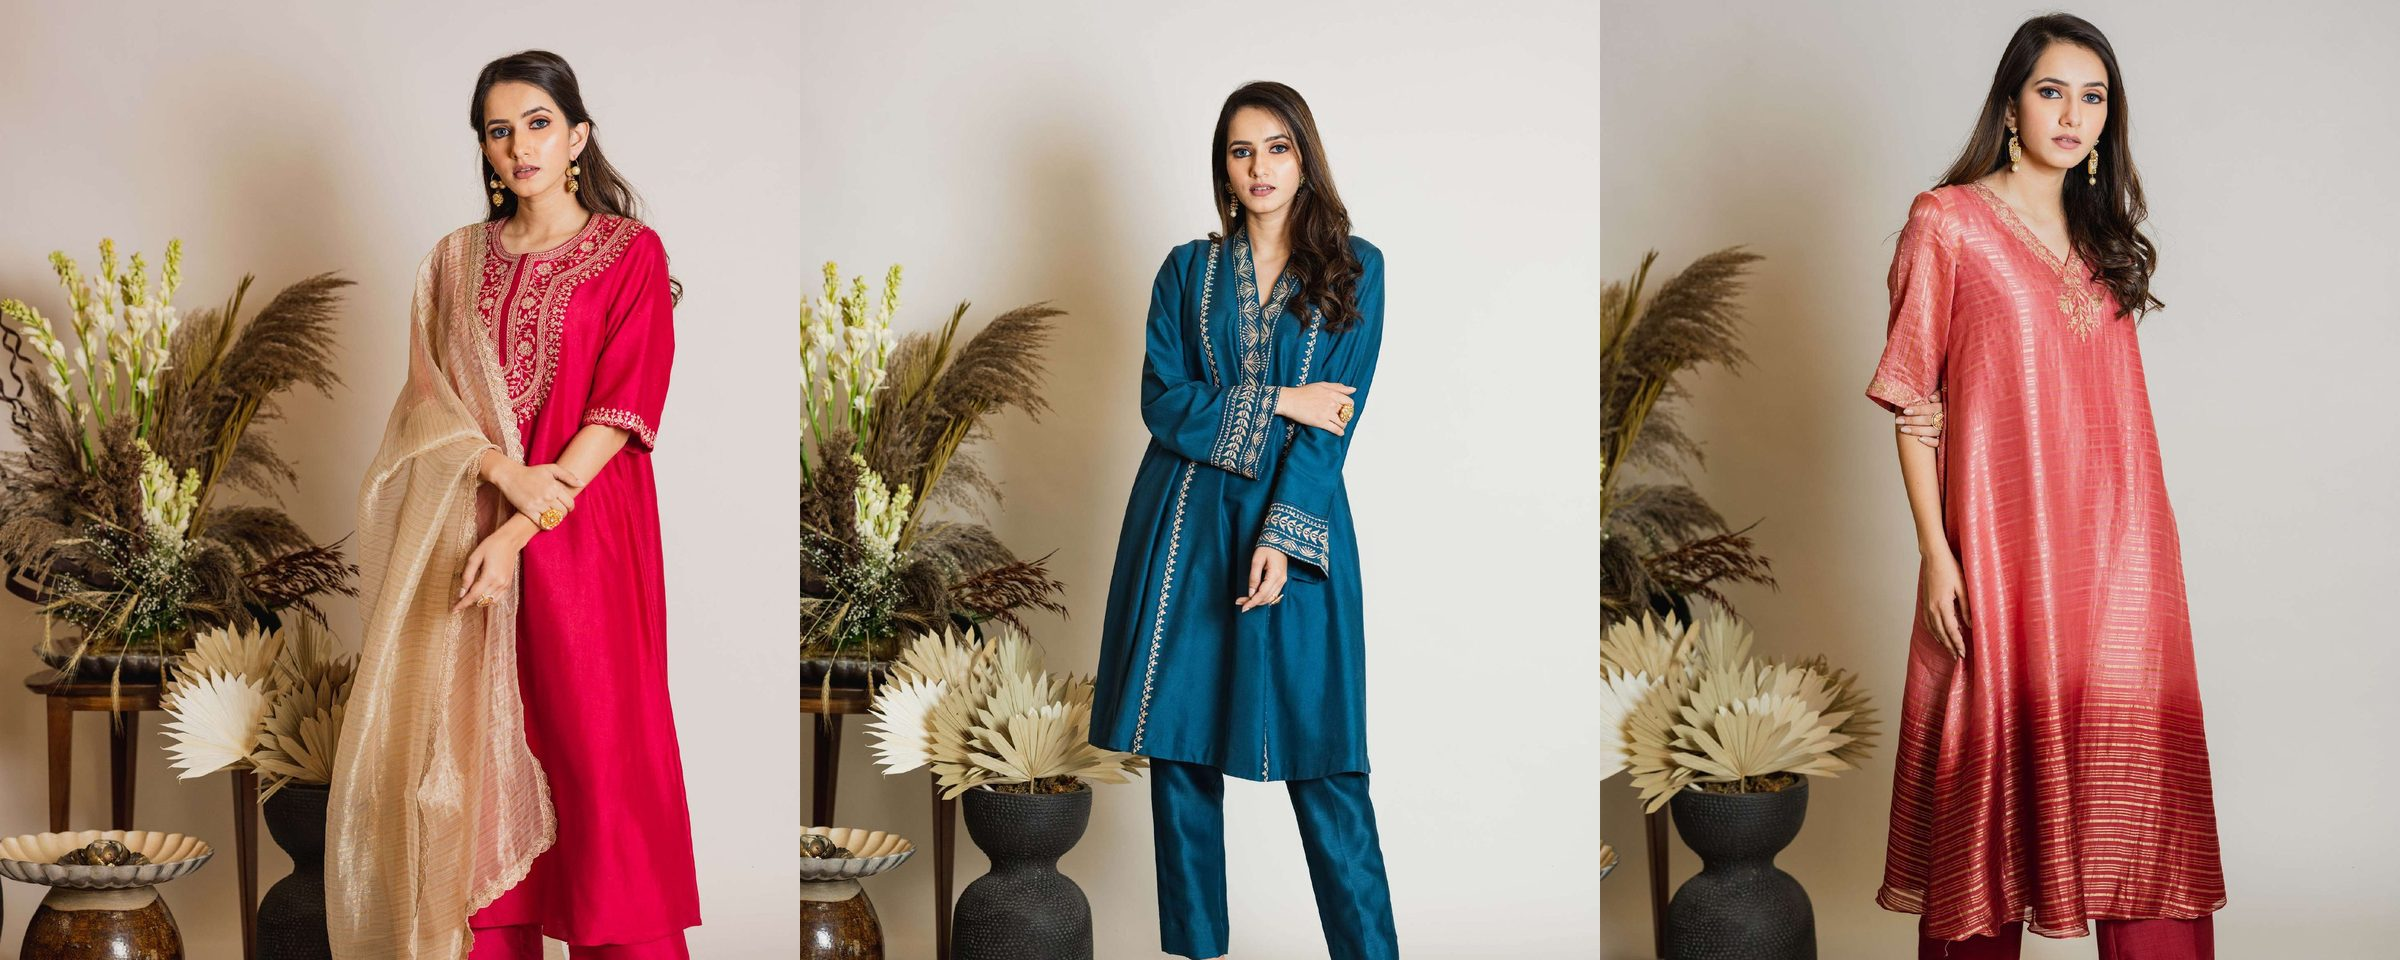
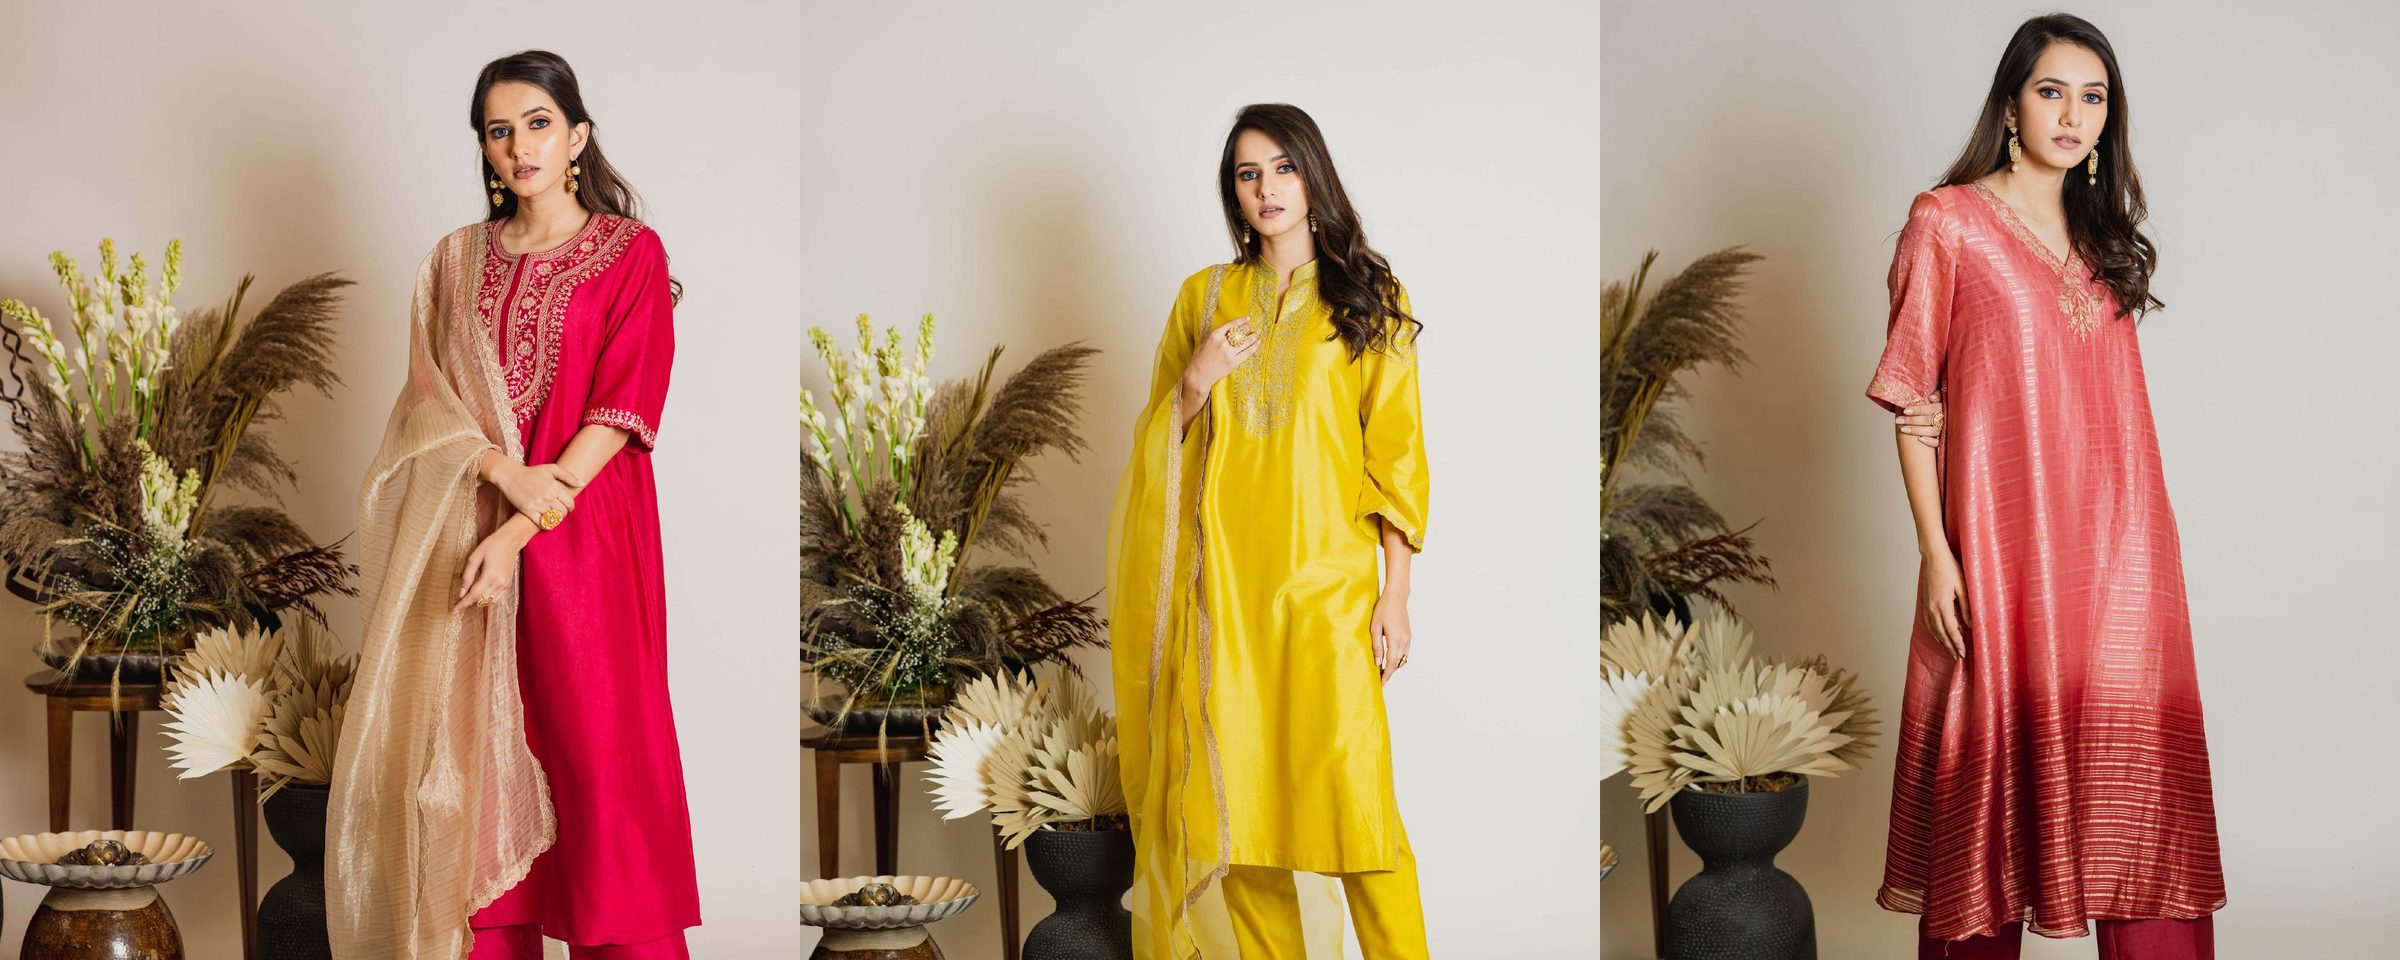
Full-viewport homepage hero, imagery refresh, and card tweaks
- Homepage hero: fill the viewport below the announcement bar and
  header (fullHeight on CollectionShowcase), larger WOMEN/LOOKBOOK
  button labels, fixed a latent image-stretch bug (object-fit: cover
  was never set on fill-mode images), swapped in new cover photos.
- Hide the browser scrollbar site-wide while keeping normal scroll.
- Atelier and Lookbook hero banners: swap the centre photo of each
  three-photo triptych.
- Women page: swap several Discover the Collection / silhouette /
  occasion tile images, and add a mirrored variant of two lookbook
  photos for tiles that needed the opposite orientation.
- Product cards: show the product name first and its category as the
  short subtitle instead of repeating "MALIHA" on every card; add a
  per-product `cardFocus` override for the image crop, used to
  reposition the Rani Pink Silk Kurta Set card.

Changed region(s): [[0.3125, 0.0625, 0.5938, 1.0]]

diff --git a/src/styles/theme/section-collection-showcase.css b/src/styles/theme/section-collection-showcase.css
@@ -1,3 +1,8 @@
 .collection-showcase__colors,.collection-showcase__title{color:var(--background_color)}.collection-showcase__image-wrapper .image__container{width:100%;height:auto}.collection-showcase__colors{background-color:var(--background_color)}.collection-showcase__image-outer-wrapper{box-sizing:border-box;display:flex;flex-direction:row;align-items:flex-start;height:auto;width:100%}.collection-showcase__text{display:block;color:var(--secondary_text);opacity:1;visibility:visible;height:auto;margin-top:.5rem}.collection-showcase__text.is-visible{display:block;opacity:1;visibility:visible;margin-top:.5rem}.collection-showcase__content-wrapper .Button--Tertiary{color:var(--secondary_text)}.collection-showcase__title{display:block}.collection-showcase__content-wrapper{position:absolute;cursor:default;top:0;left:0;z-index:6;padding:1rem;width:100%;display:flex;flex-direction:column;box-sizing:border-box;height:100%;pointer-events:none}.collection-showcase__image-container,.collection-showcase__content-wrapper a,.collection-showcase__content-wrapper button,.collection-showcase__button-wrapper a,.collection-showcase__button-wrapper button,.collection-showcase__image-container .video-controls,.collection-showcase__image-container .vjs-control,.collection-showcase__image-container .vjs-big-play-button{cursor:pointer}.collection-showcase__button-wrapper{display:flex;align-items:center;justify-content:center;gap:.625rem;position:relative;z-index:7;pointer-events:auto}.collection-content-alignment--left{justify-content:center;align-items:flex-start;text-align:start}.collection-content-alignment--center{justify-content:center;align-items:center;text-align:center}.collection-content-alignment--right{justify-content:center;align-items:flex-end;text-align:end}.collection-content-alignment--topLeft{justify-content:flex-start;align-items:flex-start;text-align:start}.collection-content-alignment--topCenter{justify-content:flex-start;align-items:center;text-align:center}.collection-content-alignment--topRight{justify-content:flex-start;align-items:flex-end;text-align:end}.collection-content-alignment--middleLeft{justify-content:center;align-items:flex-start;text-align:start}.collection-content-alignment--middleCenter{justify-content:center;align-items:center;text-align:center}.collection-content-alignment--middleRight{justify-content:center;align-items:flex-end;text-align:end}.collection-content-alignment--bottomLeft{justify-content:flex-end;align-items:flex-start;text-align:start}.collection-content-alignment--bottomCenter{justify-content:flex-end;align-items:center;text-align:center}.collection-content-alignment--bottomRight{justify-content:flex-end;align-items:flex-end;text-align:end}.collection-showcase__image-wrapper{overflow:hidden;position:relative;align-self:flex-start;height:auto}.collection-showcase__wrapper.swiper,.collection-showcase__wrapper .collection-showcase__image-outer-wrapper.swiper-wrapper{height:auto}.collection-showcase__wrapper .collection-showcase__image-wrapper.swiper-slide{height:auto!important}.collection-showcase__image-wrapper .image-block,.collection-showcase__image-wrapper .image__element,.collection-showcase__image-wrapper .video__shopify{overflow:hidden}.collection-showcase__image-container{position:relative;overflow:hidden}.collection-showcase__image-container .AspectRatio,.collection-showcase__image-container .video-container,.collection-showcase__image-container .VideoRatio{width:100%;margin:0}.collection-showcase__image-container .video-controls{overflow:hidden;position:absolute!important;left:0!important;right:0!important;bottom:0!important;width:100%;margin:0!important;height:auto!important;opacity:1;pointer-events:auto;z-index:5}.collection-showcase__image-container .video-container:has(.video-js.vjs-playing) .video-controls{display:block!important}.collection-showcase__item-link{position:absolute;top:0;right:0;bottom:0;left:0;z-index:1}.collection-showcase__image-wrapper:has(.video-container) .collection-showcase__image-container{z-index:4}.collection-showcase__image-wrapper:has(.video-container) .collection-showcase__item-link{z-index:2}.collection-showcase__overlay{position:absolute;top:0;left:0;right:0;bottom:0;opacity:.3;transition:opacity .3s ease;pointer-events:none;z-index:2}.collection-showcase__overlay--solid{background-color:var(--primary_text)}.collection-showcase__overlay--linear{background:linear-gradient(180deg,var(--primary_text) 0%,transparent 100%)}.collection-showcase__colors .section-video__controls,.collection-showcase__colors .section-video__state{display:none}.collection-showcase__colors .swiper-slide-active .collection-showcase__overlay{opacity:.2}@media screen and (min-width:1025px){.collection-showcase__content-wrapper{gap:0;padding:1.25rem}.collection-showcase__image-wrapper img{transition:transform .4s ease}.collection-showcase__image-wrapper:hover .collection-showcase__overlay{opacity:.3}.collection-showcase__image-wrapper:hover img{transform:scale(1.05)}.collection-showcase__button-wrapper{gap:1rem}.collection_item,.collection_item *{cursor:pointer}}.collection-showcase__image-wrapper:has(.video-container) .collection-showcase__item-link{pointer-events:auto;z-index:4;cursor:pointer!important}.collection-showcase__image-wrapper:has(.video-container) video-component .video-js,.collection-showcase__image-wrapper:has(.video-container) video-component .video-js *{pointer-events:none}.collection-showcase__image-wrapper:has(.video-container) .video-controls,.collection-showcase__image-wrapper:has(.video-container) .vjs-control-bar,.collection-showcase__image-wrapper:has(.video-container) .vjs-control,.collection-showcase__image-wrapper:has(.video-container) .vjs-big-play-button{pointer-events:auto;z-index:6}
 
 .collection-showcase__image-wrapper .image__element--art{object-position:var(--focus-m)}@media screen and (min-width:1025px){.collection-showcase__image-wrapper .image__element--art{object-position:50% 50%}}
+
+/* Larger button label for a hero that's the only content on screen. */
+.collection-showcase__button-wrapper--large .ButtonTextContainer,.collection-showcase__button-wrapper--large .ButtonText{height:1.5rem}
+.collection-showcase__button-wrapper--large .button-txt{font-size:1.125rem;line-height:1.5rem}
+.collection-showcase__button-wrapper--large svg{height:1.375rem;width:1.375rem}

diff --git a/src/components/CollectionShowcase.tsx b/src/components/CollectionShowcase.tsx
@@ -24,6 +24,21 @@ type Props = {
   /** Render titles as <h1> (page hero) instead of <p>. */
   heading?: boolean;
   priority?: boolean;
+  /**
+   * Fill the screen below the announcement bar and header instead of using
+   * `ratio` — so the hero, together with those two strips, fills exactly
+   * one viewport on load. `ratio` still applies to `@supports not
+   * (aspect-ratio: auto)` browsers, where this override doesn't apply.
+   */
+  fullHeight?: boolean;
+  /** Larger button label — for a hero that's the only content on screen. */
+  largeButton?: boolean;
+};
+
+/** Full viewport height, minus the announcement bar and header above it. */
+const fullHeightStyle: React.CSSProperties = {
+  height: "calc(var(--viewport-height) - var(--announcement-height-fixed) - var(--header-height-fixed))",
+  aspectRatio: "auto",
 };
 
 const adjustment = { "--adjustment_m": "20px", "--adjustment_d": "20px" } as React.CSSProperties;
@@ -60,14 +75,23 @@ function ArtDirectedImage({
         {...mobileProps}
         fetchPriority={priority ? "high" : mobileProps.fetchPriority}
         className="image__element image__element--art"
-        style={{ ...mobileProps.style, "--focus-m": focus ?? "50% 50%" } as React.CSSProperties}
+        style={{ ...mobileProps.style, objectFit: "cover", "--focus-m": focus ?? "50% 50%" } as React.CSSProperties}
       />
     </picture>
   );
 }
 
 /** `section_collection_showcase`: full-bleed image tiles in an auto-fit grid with a tertiary button. */
-export function CollectionShowcase({ items, ratio, alignment, padding = noPadding, heading, priority }: Props) {
+export function CollectionShowcase({
+  items,
+  ratio,
+  alignment,
+  padding = noPadding,
+  heading,
+  priority,
+  fullHeight,
+  largeButton,
+}: Props) {
   const quality = priority ? QUALITY.hero : QUALITY.tile;
   const desktopSizes = items.length > 1 ? `(min-width: 1025px) ${Math.round(100 / items.length)}vw, 100vw` : "100vw";
 
@@ -82,7 +106,7 @@ export function CollectionShowcase({ items, ratio, alignment, padding = noPaddin
                   <div className="collection-showcase__image-container">
                     <div
                       className="image__container ratio--responsive AspectRatio AspectRatio--withFallback "
-                      style={ratioVars(ratio)}
+                      style={fullHeight ? { ...ratioVars(ratio), ...fullHeightStyle } : ratioVars(ratio)}
                     >
                       {item.mobileImage ? (
                         <ArtDirectedImage
@@ -103,7 +127,7 @@ export function CollectionShowcase({ items, ratio, alignment, padding = noPaddin
                           sizes={desktopSizes}
                           quality={quality}
                           priority={priority}
-                          style={{ objectPosition: item.focus ?? "50% 50%" }}
+                          style={{ objectFit: "cover", objectPosition: item.focus ?? "50% 50%" }}
                         />
                       )}
                     </div>
@@ -118,7 +142,9 @@ export function CollectionShowcase({ items, ratio, alignment, padding = noPaddin
                         <p>{item.text}</p>
                       </div>
                     )}
-                    <div className="collection-showcase__button-wrapper">
+                    <div
+                      className={`collection-showcase__button-wrapper${largeButton ? " collection-showcase__button-wrapper--large" : ""}`}
+                    >
                       <Link href={item.href} className="Button Button--TertiaryOnDark adjustment" style={adjustment}>
                         <div className="ButtonTextContainer">
                           <span className="ButtonText ">

diff --git a/src/app/women/page.tsx b/src/app/women/page.tsx
@@ -59,8 +59,8 @@ export default function WomenPage() {
         padding={{ m: [8, 0, 0], d: [24, 0, 0] }}
         columns={{ m: 2, d: 2 }}
         items={[
-          { image: women("discover-kurta-sets"), href: "/collections/kurta-sets", button: "KURTA SETS", focus: "50% 30%" },
-          { image: women("discover-sharara-sets"), href: "/collections/sharara-sets", button: "SHARARA SETS", focus: "50% 28%" },
+          { image: women("nav-festive-edit"), href: "/collections/kurta-sets", button: "KURTA SETS", focus: "50% 25%" },
+          { image: look(14), href: "/collections/sharara-sets", button: "SHARARA SETS", focus: "50% 22%" },
         ]}
       />
       <CustomImageGallery
@@ -68,8 +68,8 @@ export default function WomenPage() {
         padding={{ m: [8, 0, 0], d: [16, 0, 0] }}
         columns={{ m: 2, d: 2 }}
         items={[
-          { image: women("discover-drapes-dupattas"), href: "/collections/drape-sets", button: "DRAPES & DUPATTAS", focus: "50% 25%" },
-          { image: women("discover-co-ord-sets"), href: "/collections/co-ord-sets", button: "CO-ORD SETS", focus: "50% 30%" },
+          { image: "/images/variants/zari-stripe-blue-2.jpg", href: "/collections/drape-sets", button: "DRAPES & DUPATTAS", focus: "50% 20%" },
+          { image: women("discover-kurta-sets"), href: "/collections/co-ord-sets", button: "CO-ORD SETS", focus: "50% 30%" },
         ]}
       />
 
@@ -122,9 +122,9 @@ export default function WomenPage() {
         padding={{ m: [0, 20, 0], d: [0, 0, 0] }}
         items={[
           { image: women("spring-summer"), focus: "50% 20%", href: "/collections/spring-summer", title: "Spring/Summer", button: "SHOP NOW" },
-          { image: women("autumn-winter"), focus: "50% 20%", href: "/collections/autumn-winter", title: "Autumn/Winter", button: "SHOP NOW" },
+          { image: women("autumn-winter"), focus: "65% 10%", href: "/collections/autumn-winter", title: "Autumn/Winter", button: "SHOP NOW" },
           { image: look(12), focus: "50% 20%", href: "/collections/festive", title: "Festive", button: "SHOP NOW" },
-          { image: women("hand-picked"), focus: "50% 20%", href: "/collections/hand-picked", title: "Hand Picked", button: "SHOP NOW" },
+          { image: "/images/lookbook/look-34-flipped.jpg", focus: "50% 20%", href: "/collections/hand-picked", title: "Hand Picked", button: "SHOP NOW" },
         ]}
       />
 
@@ -140,8 +140,8 @@ export default function WomenPage() {
         padding={{ m: [0, 20, 0], d: [0, 0, 0] }}
         items={[
           { image: women("in-celebration"), focus: "50% 25%", href: "/collections/in-celebration", title: "In Celebration", button: "SEE ALL" },
-          { image: look(29), focus: "50% 20%", href: "/collections/in-evening", title: "In Evening", button: "DISCOVER" },
-          { image: look(28), focus: "50% 20%", href: "/collections/in-ease", title: "In Ease", button: "EXPLORE" },
+          { image: "/images/variants/zari-stripe-yellow-2.jpg", focus: "50% 15%", href: "/collections/in-evening", title: "In Evening", button: "DISCOVER" },
+          { image: look(28), focus: "50% 10%", href: "/collections/in-ease", title: "In Ease", button: "EXPLORE" },
         ]}
       />
     </main>

diff --git a/src/components/product/ProductCard.tsx b/src/components/product/ProductCard.tsx
@@ -163,7 +163,7 @@ export function ProductCard({ product: initial, sizes = "(min-width: 1025px) 25v
                       fill
                       sizes={sizes}
                       quality={QUALITY.tile}
-                      style={{ objectPosition: "50% 20%" }}
+                      style={{ objectPosition: product.cardFocus ?? "50% 20%" }}
                     />
                   )}
                 </SwiperSlide>
@@ -207,9 +207,9 @@ export function ProductCard({ product: initial, sizes = "(min-width: 1025px) 25v
           <div className="pc__information mt-m">
             <div className="pc__information__meta">
               <div className="pm__information__meta--top">
-                <span className="pc__information__brand-name u-s2"> {product.brand} </span>
+                <span className="pc__information__brand-name u-s2"> {product.name} </span>
                 <div className="pc__information__name-switcher">
-                  <span className="pc__information__title pc__information__title--default u-p2"> {product.name} </span>
+                  <span className="pc__information__title pc__information__title--default u-p2"> {product.category.label} </span>
                   <div className="pc__information__title-variants">
                     <Sizes product={product} />
                   </div>

diff --git a/src/app/page.tsx b/src/app/page.tsx
@@ -8,9 +8,11 @@ export default function Home() {
         ratio={{ m: "4/5", d: "24/20" }}
         alignment="middleCenter"
         priority
+        fullHeight
+        largeButton
         items={[
-          { image: "/images/women/home-cover.jpg", href: "/women", button: "WOMEN", focus: "50% 20%" },
-          { image: "/images/lookbook/look-15.jpg", href: "/lookbook", button: "LOOKBOOK", focus: "50% 20%" },
+          { image: "/images/lookbook/look-20.jpg", href: "/women", button: "WOMEN", focus: "60% 30%" },
+          { image: "/images/women/autumn-winter.jpg", href: "/lookbook", button: "LOOKBOOK", focus: "50% 15%" },
         ]}
       />
       <HeadingText

diff --git a/src/data/products.ts b/src/data/products.ts
@@ -5,6 +5,8 @@ export type Product = {
   label?: "NEW" | "BESTSELLER";
   /** 4:5 card images; the first is the default. */
   images: string[];
+  /** CSS object-position for the card image crop (default "50% 20%"). */
+  cardFocus?: string;
   colors: { name: string; hex: string }[];
   sizes: { label: string; available: boolean }[];
   /** Price in INR. */
@@ -137,6 +139,7 @@ export const featuredProducts: Product[] = [
     name: "Rani Pink Silk Kurta Set",
     label: "BESTSELLER",
     images: [look(10), look(18), look(19)],
+    cardFocus: "60% 5%",
     colors: [{ name: "Rani Pink", hex: "#c8184a" }],
     sizes: sizes(),
     price: 14800,

diff --git a/src/styles/theme/base.css b/src/styles/theme/base.css
@@ -2,3 +2,7 @@
 
 /* Links to routes not built yet (see SiteLink) keep the clickable look */
 a[aria-disabled="true"]{cursor:pointer}
+
+/* Scrollbars are hidden site-wide; the page still scrolls normally. */
+html,body{scrollbar-width:none;-ms-overflow-style:none}
+html::-webkit-scrollbar,body::-webkit-scrollbar{display:none}

diff --git a/scripts/prepare-assets.py b/scripts/prepare-assets.py
@@ -279,8 +279,8 @@ def main() -> None:
         save(Image.open(path).convert("RGB"), MALIHA / f"ig-{n:02d}.jpg")
 
     # Wide banners at the exact desktop ratios (24/10 and 10/4).
-    save(triptych([LOOKBOOK / "look-10.jpg", LOOKBOOK / "look-16.jpg", LOOKBOOK / "look-23.jpg"], 2400, 960, 0.22), MALIHA / "banner-atelier.jpg", max_w=2400)
-    save(triptych([LOOKBOOK / "look-05.jpg", LOOKBOOK / "look-15.jpg", LOOKBOOK / "look-30.jpg"], 2400, 1000, 0.2), MALIHA / "banner-lookbook.jpg", max_w=2400)
+    save(triptych([LOOKBOOK / "look-10.jpg", LOOKBOOK / "look-22.jpg", LOOKBOOK / "look-23.jpg"], 2400, 960, 0.22), MALIHA / "banner-atelier.jpg", max_w=2400)
+    save(triptych([LOOKBOOK / "look-05.jpg", LOOKBOOK / "look-29.jpg", LOOKBOOK / "look-30.jpg"], 2400, 1000, 0.2), MALIHA / "banner-lookbook.jpg", max_w=2400)
 
     save_variants()
     save_women()
